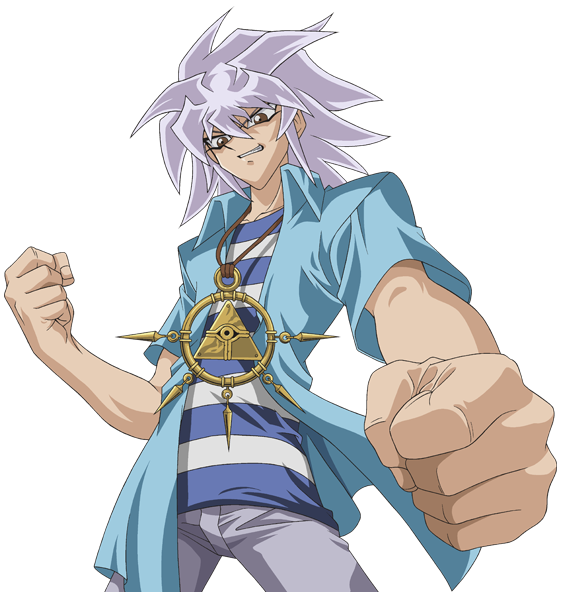
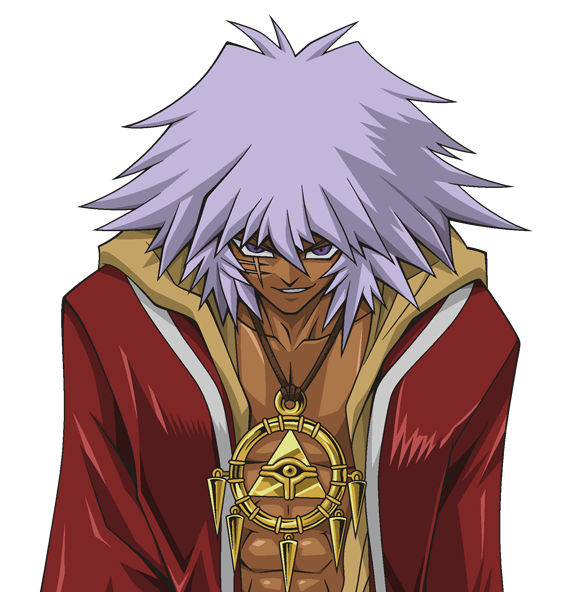
Replaced picture: Yami Bakura

diff --git a/data/decks/__init__.py b/data/decks/__init__.py
@@ -27,6 +27,7 @@ from .shimon_muran import SHIMON_DECKS
 from .umbra import UMBRA_DECKS
 from .ventriloquist_of_the_dead import VENTRILOQUIST_DECKS
 from .weevil import WEEVIL_DECKS
+from .yami_bakura import YAMI_BAKURA_DECKS
 from .yugi import YUGI_DECKS
 from .kaiba import KAIBA_DECKS
 from .joey import JOEY_DECKS
@@ -74,6 +75,7 @@ LIST_OF_DECKS = {
     "espa_roba": ESPA_ROBA_DECKS,
     "other_duelists_duel_monsters": OTHER_DM_DECKS,
     "red_eyes_black_dragon": RED_EYES_BLACK_DRAGON_DECKS,
+    "yami_bakura": YAMI_BAKURA_DECKS,
 }
 
 __all__ = ["LIST_OF_DECKS"]

diff --git a/data/duelists.py b/data/duelists.py
@@ -40,7 +40,7 @@ DUELISTS = [
     # =========================
     ("marik_ishtar", "images/duelists/placeholder.webp", "duel_monsters"),
     ("yami_yugi", "images/duelists/placeholder.webp", "duel_monsters"),
-    ("yami_bakura", "images/duelists/placeholder.webp", "duel_monsters"),
+    ("yami_bakura", "images/duelists/yami-bakura.png", "duel_monsters"),
     ("shadi", "images/duelists/placeholder.webp", "duel_monsters"),
     ("rex_raptor", "images/duelists/placeholder.webp", "duel_monsters"),
     ("para", "images/duelists/placeholder.webp", "duel_monsters"),

diff --git a/config.py b/config.py
@@ -2,7 +2,7 @@ APP_WIDTH = 1200
 APP_HEIGHT = 750
 CARD_WIDTH = 250
 CARD_HEIGHT = 420
-CURRENT_VERSION = "v0.96"
+CURRENT_VERSION = "v0.97"
 GITHUB_REPO = "FellipeF/Yu-Gi-Oh-Desktop-Companion-App"
 DB_NAME = "yugi.db"
 LATEST_DB_CHANGE = "ADDED REMAINING COLUMNS TO CARDS"

diff --git a/data/decks/yami_bakura.py b/data/decks/yami_bakura.py
@@ -1,0 +1,3 @@
+YAMI_BAKURA_DECKS = {
+
+}
